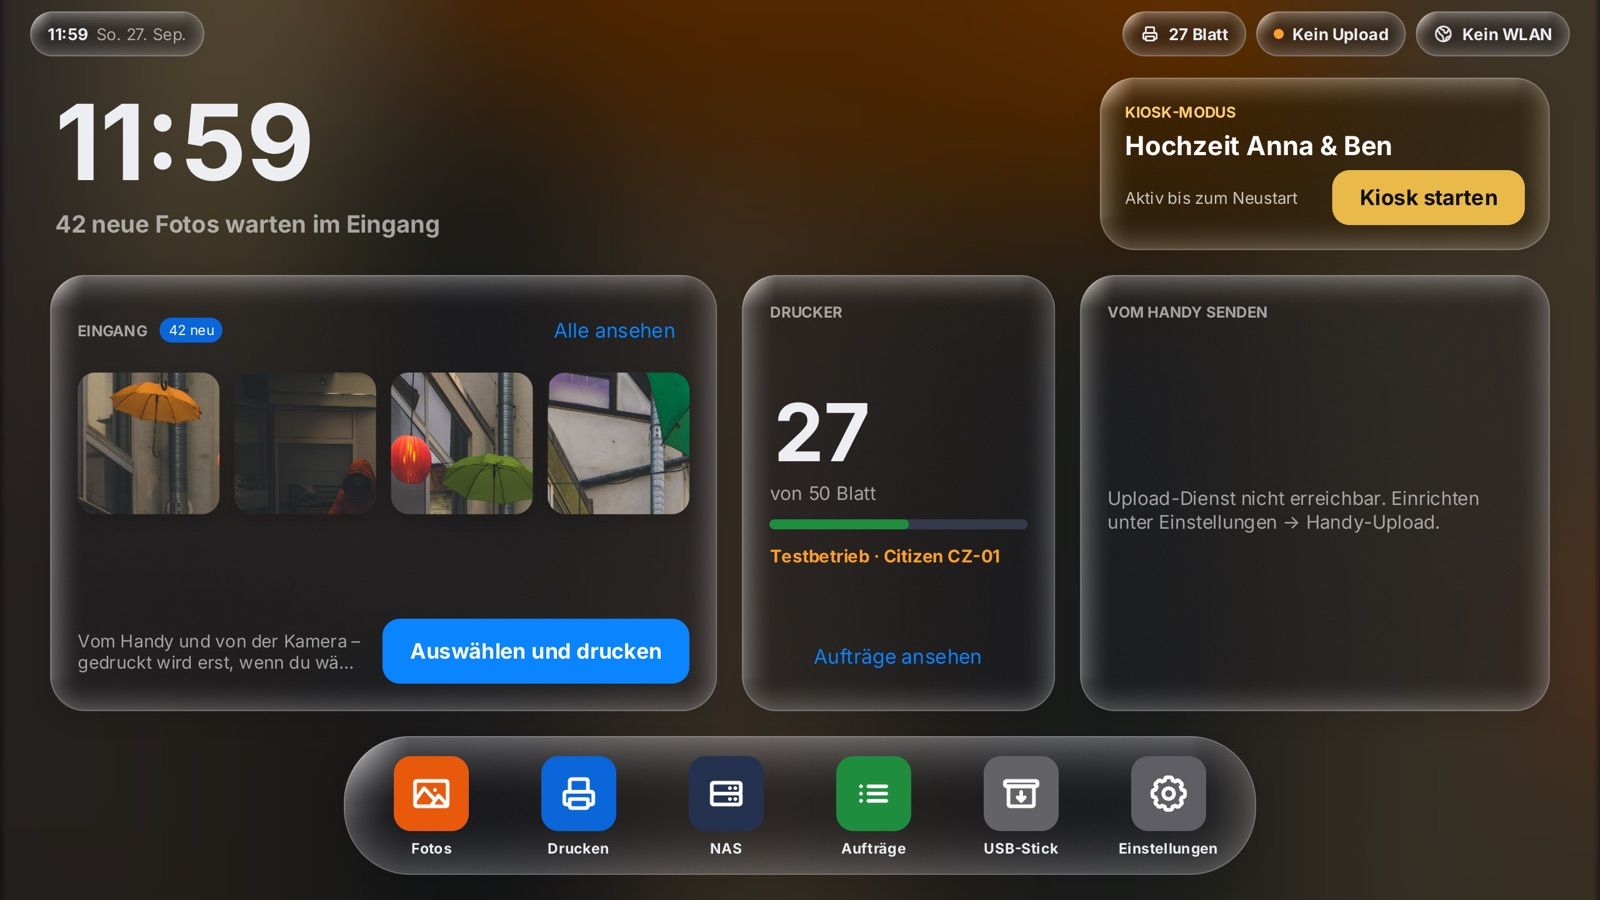
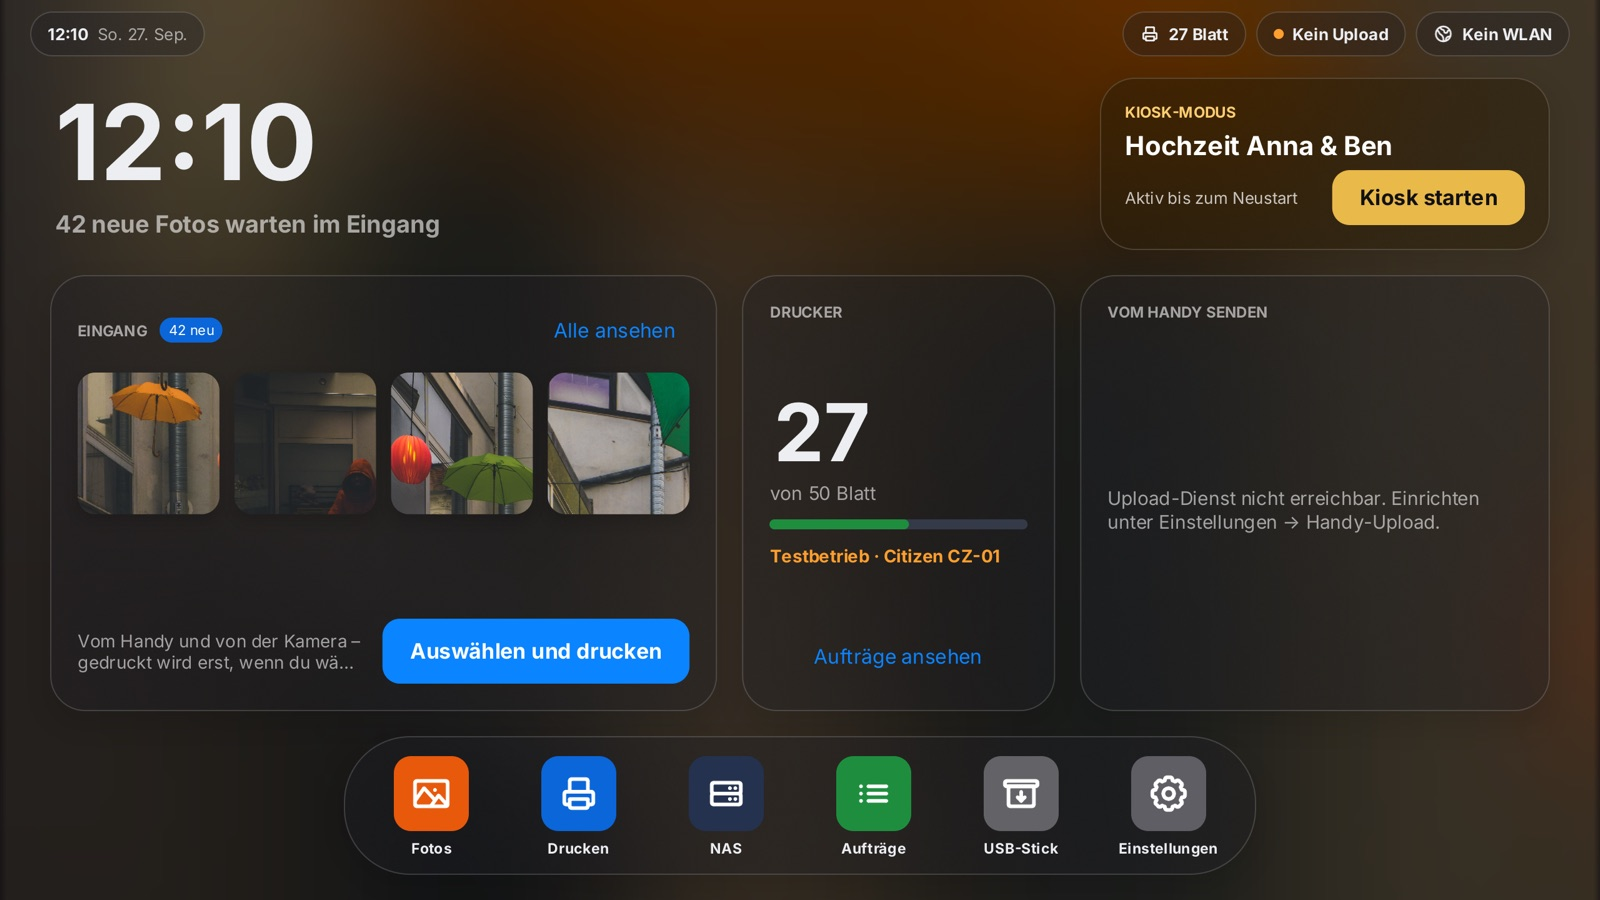
fix(ui): flaches Glas wie die Vorlage statt gewölbter Linsen
Lichtbrechung am Rand und der breite Randschein des gift-Shaders ließen die
Flächen kugelig wirken. Wie in der CSS-Vorlage ist das Glas jetzt flach:
gleichmäßige Milch über dem weichgezeichneten Hintergrund, ein feiner
Haarstrich als Kante und ein weicher Schatten. Screenshots erneuert.

Changed region(s): [[0.0312, 0.0, 1.0, 0.9956], [0.0625, 0.0933, 0.1875, 0.2178], [0.0, 0.0, 0.125, 0.0622]]

diff --git a/app/device/ui/glass.go b/app/device/ui/glass.go
@@ -23,18 +23,18 @@ var solid bool
 // paneTint ist die Milch des Glases, paneEdge seine helle Kante.
 func paneTint() ui.Color {
 	if darkPalette {
-		return ui.RGBA(30, 30, 36, 105)
+		return ui.RGBA(30, 30, 36, 90)
 	}
 
-	return ui.RGBA(255, 255, 255, 80)
+	return ui.RGBA(255, 255, 255, 60)
 }
 
 func paneEdge() ui.Color {
 	if darkPalette {
-		return ui.RGBA(255, 255, 255, 46)
+		return ui.RGBA(255, 255, 255, 40)
 	}
 
-	return ui.RGBA(255, 255, 255, 140)
+	return ui.RGBA(255, 255, 255, 110)
 }
 
 // paneBackground ist Glas oder, bei reduzierter Transparenz, die Fläche.
@@ -43,12 +43,16 @@ func paneBackground(tint ui.Color) ui.Background {
 		return ui.ColorSurface
 	}
 
-	return ui.Glass().Tint(tint).Blur(u(24)).Refraction(u(5)).Highlight(0.55).Grain(0.04)
+	// Flach wie die Vorlage (scratchpad liquid-glass.html, iOS): Milch und
+	// Unschärfe, keine Lichtbrechung am Rand und kein Randschein. Beides
+	// ließ die Flächen wie gewölbte Linsen wirken. Die Kante besorgt ein
+	// Haarstrich, siehe glassPane.
+	return ui.Glass().Tint(tint).Blur(u(26)).Refraction(0).Highlight(0).Grain(0.03)
 }
 
 // paneShadow hebt eine Glasfläche leicht vom Hintergrund ab.
 func paneShadow() ui.Shadow {
-	return ui.Shadow{Blur: u(26), OffsetY: u(8), Color: ui.RGBA(0, 0, 0, 30)}
+	return ui.Shadow{Blur: u(30), OffsetY: u(10), Color: ui.RGBA(0, 0, 0, 36)}
 }
 
 // glassCard ist eine Karte aus Glas; sie ersetzt card auf Glasbildschirmen.
